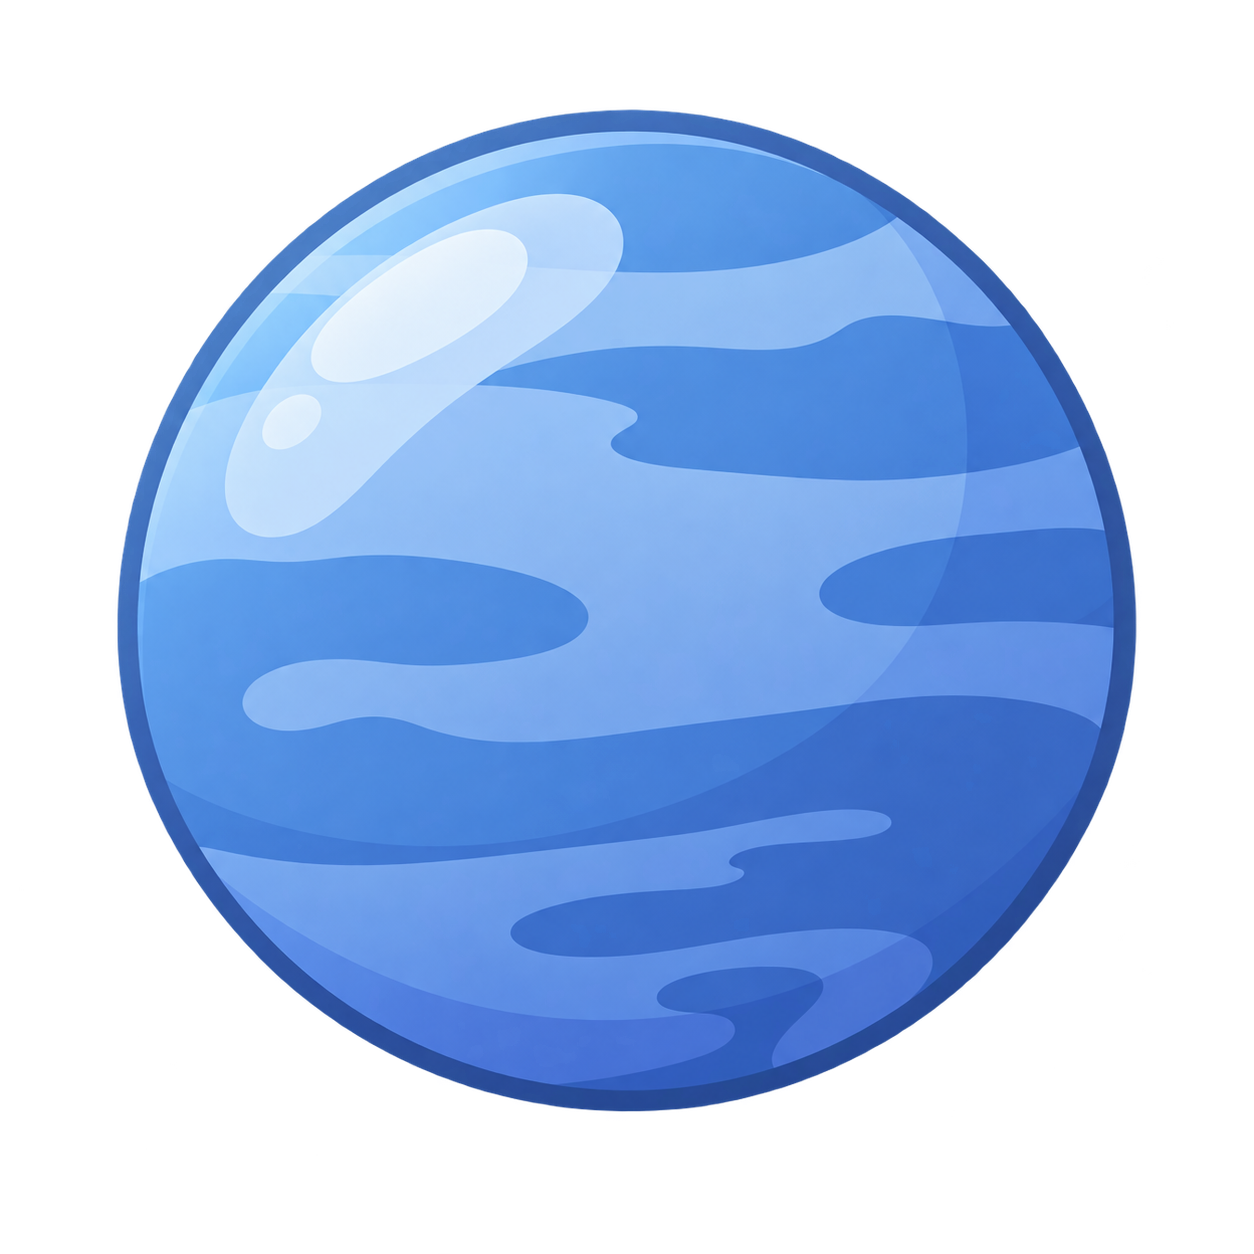
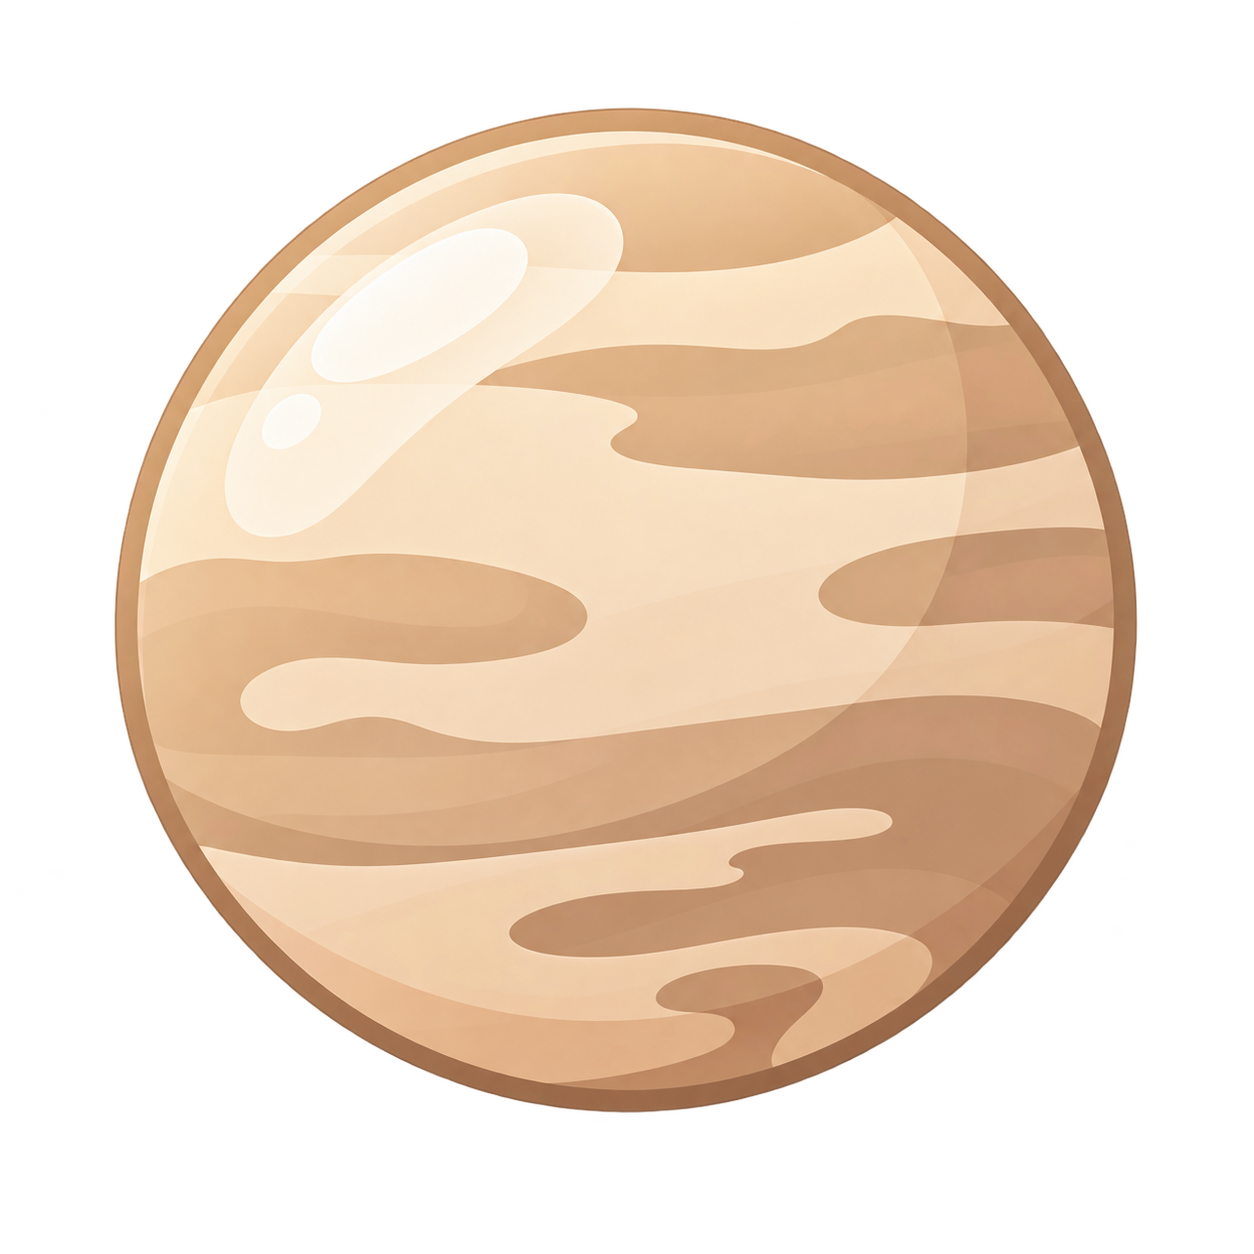
디자인 수정

diff --git a/front/src/pages/DashboardPage.jsx b/front/src/pages/DashboardPage.jsx
@@ -5,7 +5,6 @@ import Moon from '../components/Moon';
 import Astronaut from '../components/Astronaut';
 import NewPersonModal, { useNewPersonModal } from '../components/NewPersonModal';
 import { ChevronDownIcon, CheckIcon, PlusIcon, SparkleIcon, WarnIcon } from '../components/Icons';
-import { avatarGradientFor } from '../utils/avatar';
 import { pointImageFor } from '../utils/pointImage';
 import { RELATIONSHIP_TYPE_LABELS } from '../data/constants';
 import ufoImage from '../assets/images/UFO.png';
@@ -66,6 +65,7 @@ export default function DashboardPage() {
   const [loading, setLoading] = useState(true);
   const [isSortMenuOpen, setIsSortMenuOpen] = useState(false);
   const sortMenuRef = useRef(null);
+  const ufoRef = useRef(null);
 
   const load = useCallback(async (nextSort) => {
     setLoading(true);
@@ -101,11 +101,49 @@ export default function DashboardPage() {
     };
   }, []);
 
+  useEffect(() => {
+    const ufo = ufoRef.current;
+    const area = ufo?.parentElement;
+    if (!ufo || !area) return undefined;
+
+    let timer;
+    let firstMoveFrame;
+    let cancelled = false;
+    const reducedMotion = window.matchMedia('(prefers-reduced-motion: reduce)').matches;
+
+    function moveUfo() {
+      if (cancelled) return;
+      const width = Math.max(area.clientWidth, 320);
+      const height = Math.max(area.clientHeight, 520);
+      const x = -24 + Math.random() * (width + 48);
+      const y = 80 + Math.random() * Math.max(140, height - 180);
+      const scale = 0.34 + Math.random() * 0.71;
+      const rotation = -18 + Math.random() * 36;
+      const duration = 7000 + Math.random() * 11000;
+
+      ufo.style.transition = reducedMotion
+        ? 'none'
+        : `transform ${duration.toFixed(0)}ms cubic-bezier(0.32, 0.04, 0.22, 1)`;
+      ufo.style.transform = `translate3d(${x.toFixed(0)}px, ${y.toFixed(0)}px, 0) rotate(${rotation.toFixed(1)}deg) scale(${scale.toFixed(2)})`;
+
+      if (!reducedMotion) {
+        timer = window.setTimeout(moveUfo, duration + 300 + Math.random() * 1800);
+      }
+    }
+
+    firstMoveFrame = window.requestAnimationFrame(moveUfo);
+    return () => {
+      cancelled = true;
+      window.cancelAnimationFrame(firstMoveFrame);
+      window.clearTimeout(timer);
+    };
+  }, []);
+
   const isEmpty = !loading && !error && data && data.relationships.length === 0;
 
   return (
     <section className="view">
-      <img className="dashboard-ufo" src={ufoImage} alt="" aria-hidden="true" />
+      <img ref={ufoRef} className="dashboard-ufo" src={ufoImage} alt="" aria-hidden="true" />
       <div className="page-head">
         <div className="page-head-copy">
           <h1 className="page-title">이번 주 나의 관계 온도</h1>
@@ -207,7 +245,7 @@ export default function DashboardPage() {
                     onClick={() => navigate(`/report/${p.id}`)}
                   >
                     <div className="person-top">
-                      <img className="avatar point-avatar" src={pointImageFor(p.score)} alt="" />
+                      <img className="avatar point-avatar small-point-avatar" src={pointImageFor(p.score)} alt="" />
                       <div>
                         <div className="person-name">{p.name}</div>
                         <span className="chip">{RELATIONSHIP_TYPE_LABELS[p.relationshipType]}</span>
@@ -271,7 +309,7 @@ export default function DashboardPage() {
               {data.needsAttention.map((p) => (
                 <div className="warn-row" key={p.relationshipId}>
                   <div className="trend-info">
-                    <img className="avatar point-avatar" src={pointImageFor(p.score)} alt="" />
+                    <img className="avatar point-avatar small-point-avatar" src={pointImageFor(p.score)} alt="" />
                     <div>
                       <div className="trend-name">{p.name}</div>
                       <div style={{ fontSize: 11, color: 'var(--text-muted)' }}>{p.reasonLabel}</div>

diff --git a/front/src/pages/ChatPage.jsx b/front/src/pages/ChatPage.jsx
@@ -6,8 +6,10 @@ import {
   sendMessage as sendMessageApi,
   openMessageStream,
 } from '../api/consultations';
+import { listRelationships } from '../api/relationships';
 import { fetchSupportResources } from '../api/supportResources';
 import { avatarGradientFor, initialsOf } from '../utils/avatar';
+import { pointImageFor } from '../utils/pointImage';
 import { MiniAstronaut } from '../components/Astronaut';
 import { SendIcon, WarnIcon } from '../components/Icons';
 import './Chat.css';
@@ -22,8 +24,17 @@ export default function ChatPage() {
   const [roomsLoading, setRoomsLoading] = useState(true);
 
   useEffect(() => {
-    listConsultations()
-      .then(setRooms)
+    Promise.all([listConsultations(), listRelationships()])
+      .then(([consultations, relationships]) => {
+        const relationshipById = new Map(relationships.map((relationship) => [relationship.id, relationship]));
+        setRooms(consultations.map((consultation) => ({
+          ...consultation,
+          relationship: {
+            ...consultation.relationship,
+            ...relationshipById.get(consultation.relationship.id),
+          },
+        })));
+      })
       .finally(() => setRoomsLoading(false));
   }, []);
 
@@ -46,9 +57,13 @@ export default function ChatPage() {
             className={`room-item ${r.id === id ? 'active' : ''}`}
             onClick={() => navigate(`/chat/${r.id}`)}
           >
-            <div className="room-avatar" style={{ background: avatarGradientFor(r.relationship.id) }}>
-              {r.relationship.initial || initialsOf(r.relationship.name)}
-            </div>
+            {pointImageFor(r.relationship.score) ? (
+              <img className="room-avatar chat-point-avatar" src={pointImageFor(r.relationship.score)} alt="" />
+            ) : (
+              <div className="room-avatar" style={{ background: avatarGradientFor(r.relationship.id) }}>
+                {r.relationship.initial || initialsOf(r.relationship.name)}
+              </div>
+            )}
             <div style={{ flex: 1, minWidth: 0 }}>
               <div className="room-name-row">
                 <span className="room-name">{r.relationship.name}</span>
@@ -153,8 +168,10 @@ function ChatRoom({ consultationId, rooms }) {
   return (
     <div className="chat-main">
       <div className="chat-header">
-        <h2>{room ? `${room.relationship.name}님과의 상담` : '상담'}</h2>
-        <p>{room ? `${room.relationship.name}님과의 대화 데이터 기반 상담` : ''}</p>
+        <div>
+          <h2>{room ? `AI 상담 (feat: ${room.relationship.name}님)` : 'AI 상담'}</h2>
+          <p>{room ? `${room.relationship.name}님과의 대화 데이터를 바탕으로 관계를 함께 살펴봐요` : ''}</p>
+        </div>
       </div>
 
       <div className="chat-scroll" ref={scrollRef}>

diff --git a/front/src/pages/Dashboard.css b/front/src/pages/Dashboard.css
@@ -8,8 +8,8 @@
 .dashboard-ufo {
   position: absolute;
   z-index: 0;
-  top: 300px;
-  left: 50%;
+  top: 0;
+  left: 0;
   width: 48px;
   height: 48px;
   object-fit: contain;
@@ -17,45 +17,15 @@
   pointer-events: none;
   will-change: transform;
   transform-origin: center;
-  animation: ufo-cruise 62s ease-in-out infinite;
 }
 .page-head,
 .dash-grid {
   position: relative;
   z-index: 1;
 }
-@keyframes ufo-cruise {
-  0% {
-    transform: translate3d(42vw, -110px, 0) rotate(-11deg) scale(0.42);
-  }
-  12% {
-    transform: translate3d(25vw, -210px, 0) rotate(7deg) scale(0.58);
-  }
-  26% {
-    transform: translate3d(-4vw, -130px, 0) rotate(-4deg) scale(1.02);
-  }
-  39% {
-    transform: translate3d(-38vw, 20px, 0) rotate(10deg) scale(0.5);
-  }
-  53% {
-    transform: translate3d(-19vw, 185px, 0) rotate(-7deg) scale(0.65);
-  }
-  67% {
-    transform: translate3d(16vw, 245px, 0) rotate(5deg) scale(0.38);
-  }
-  81% {
-    transform: translate3d(38vw, 95px, 0) rotate(-8deg) scale(1.05);
-  }
-  92% {
-    transform: translate3d(19vw, -40px, 0) rotate(4deg) scale(0.54);
-  }
-  100% {
-    transform: translate3d(42vw, -110px, 0) rotate(-11deg) scale(0.42);
-  }
-}
 @media (prefers-reduced-motion: reduce) {
   .dashboard-ufo {
-    animation: none;
+    transform: translate3d(50%, 180px, 0) scale(0.7) !important;
   }
 }
 

diff --git a/front/src/pages/ReportPage.jsx b/front/src/pages/ReportPage.jsx
@@ -317,6 +317,21 @@ function ReportBody({ report, onAddData, onConsult, consultLoading }) {
         )}
       </div>
 
+      {report.selfReportComparison?.trim() && (
+        <section className="card self-report-comparison" aria-labelledby="self-report-comparison-title">
+          <div className="self-report-comparison-heading">
+            <span className="self-report-comparison-kicker">체크인과 대화 분석</span>
+            <h3 id="self-report-comparison-title">내가 느낀 관계와 대화에서 보인 모습</h3>
+          </div>
+          <p>
+            {report.selfReportComparison}
+          </p>
+          <span className="self-report-comparison-note">
+            이 내용은 자기보고와 대화에서 관찰된 신호를 비교한 참고 설명이에요.
+          </span>
+        </section>
+      )}
+
       <div className="card trend-card">
         <h3>시간에 따른 변화</h3>
         <div className="trend-chart-wrap">

diff --git a/front/src/pages/Report.css b/front/src/pages/Report.css
@@ -431,6 +431,43 @@
   color: var(--text-primary);
 }
 
+.self-report-comparison {
+  margin-bottom: 26px;
+  padding: 22px 24px;
+  border-color: rgba(226, 160, 201, 0.5);
+  background: linear-gradient(135deg, var(--surface-solid), var(--accent-pink-soft));
+}
+.self-report-comparison-heading {
+  display: flex;
+  align-items: baseline;
+  gap: 10px;
+  flex-wrap: wrap;
+  margin-bottom: 12px;
+}
+.self-report-comparison-kicker {
+  color: var(--accent-pink);
+  font-size: 11px;
+  font-weight: 800;
+}
+.self-report-comparison h3 {
+  margin: 0;
+  font-size: 16px;
+}
+.self-report-comparison p {
+  margin: 0;
+  color: var(--text-primary);
+  font-size: 14px;
+  line-height: 1.7;
+  white-space: pre-wrap;
+}
+.self-report-comparison-note {
+  display: block;
+  margin-top: 12px;
+  color: var(--text-muted);
+  font-size: 11.5px;
+  line-height: 1.5;
+}
+
 .trend-card {
   margin-bottom: 26px;
 }

diff --git a/front/src/pages/Chat.css b/front/src/pages/Chat.css
@@ -47,6 +47,11 @@
   font-weight: 800;
   color: #241542;
 }
+.chat-point-avatar {
+  display: block;
+  object-fit: contain;
+  object-position: center;
+}
 .room-name-row {
   display: flex;
   justify-content: space-between;
@@ -77,6 +82,9 @@
   height: 100vh;
 }
 .chat-header {
+  display: flex;
+  align-items: center;
+  gap: 12px;
   padding: 20px 32px;
   border-bottom: 1px solid var(--border);
 }

diff --git a/front/src/components/AppLayout.css b/front/src/components/AppLayout.css
@@ -61,7 +61,7 @@
 .brand-tag {
   font-size: 11px;
   color: var(--text-muted);
-  margin-top: 1px;
+  margin-top: 4px;
   white-space: nowrap;
 }
 .sidebar-toggle {
@@ -298,7 +298,7 @@
 
 .brand-name-img {
   display: block;
-  height: 14px;
+  height: 17px;
   width: auto;
   margin-top: 2px;
   image-rendering: pixelated;

diff --git a/front/src/styles/theme.css b/front/src/styles/theme.css
@@ -167,8 +167,13 @@ button.link-quiet {
   color: #241542;
 }
 .point-avatar {
+  display: block;
   object-fit: contain;
   object-position: center;
+}
+.small-point-avatar {
+  width: 28px;
+  height: 28px;
 }
 
 .score-delta {
